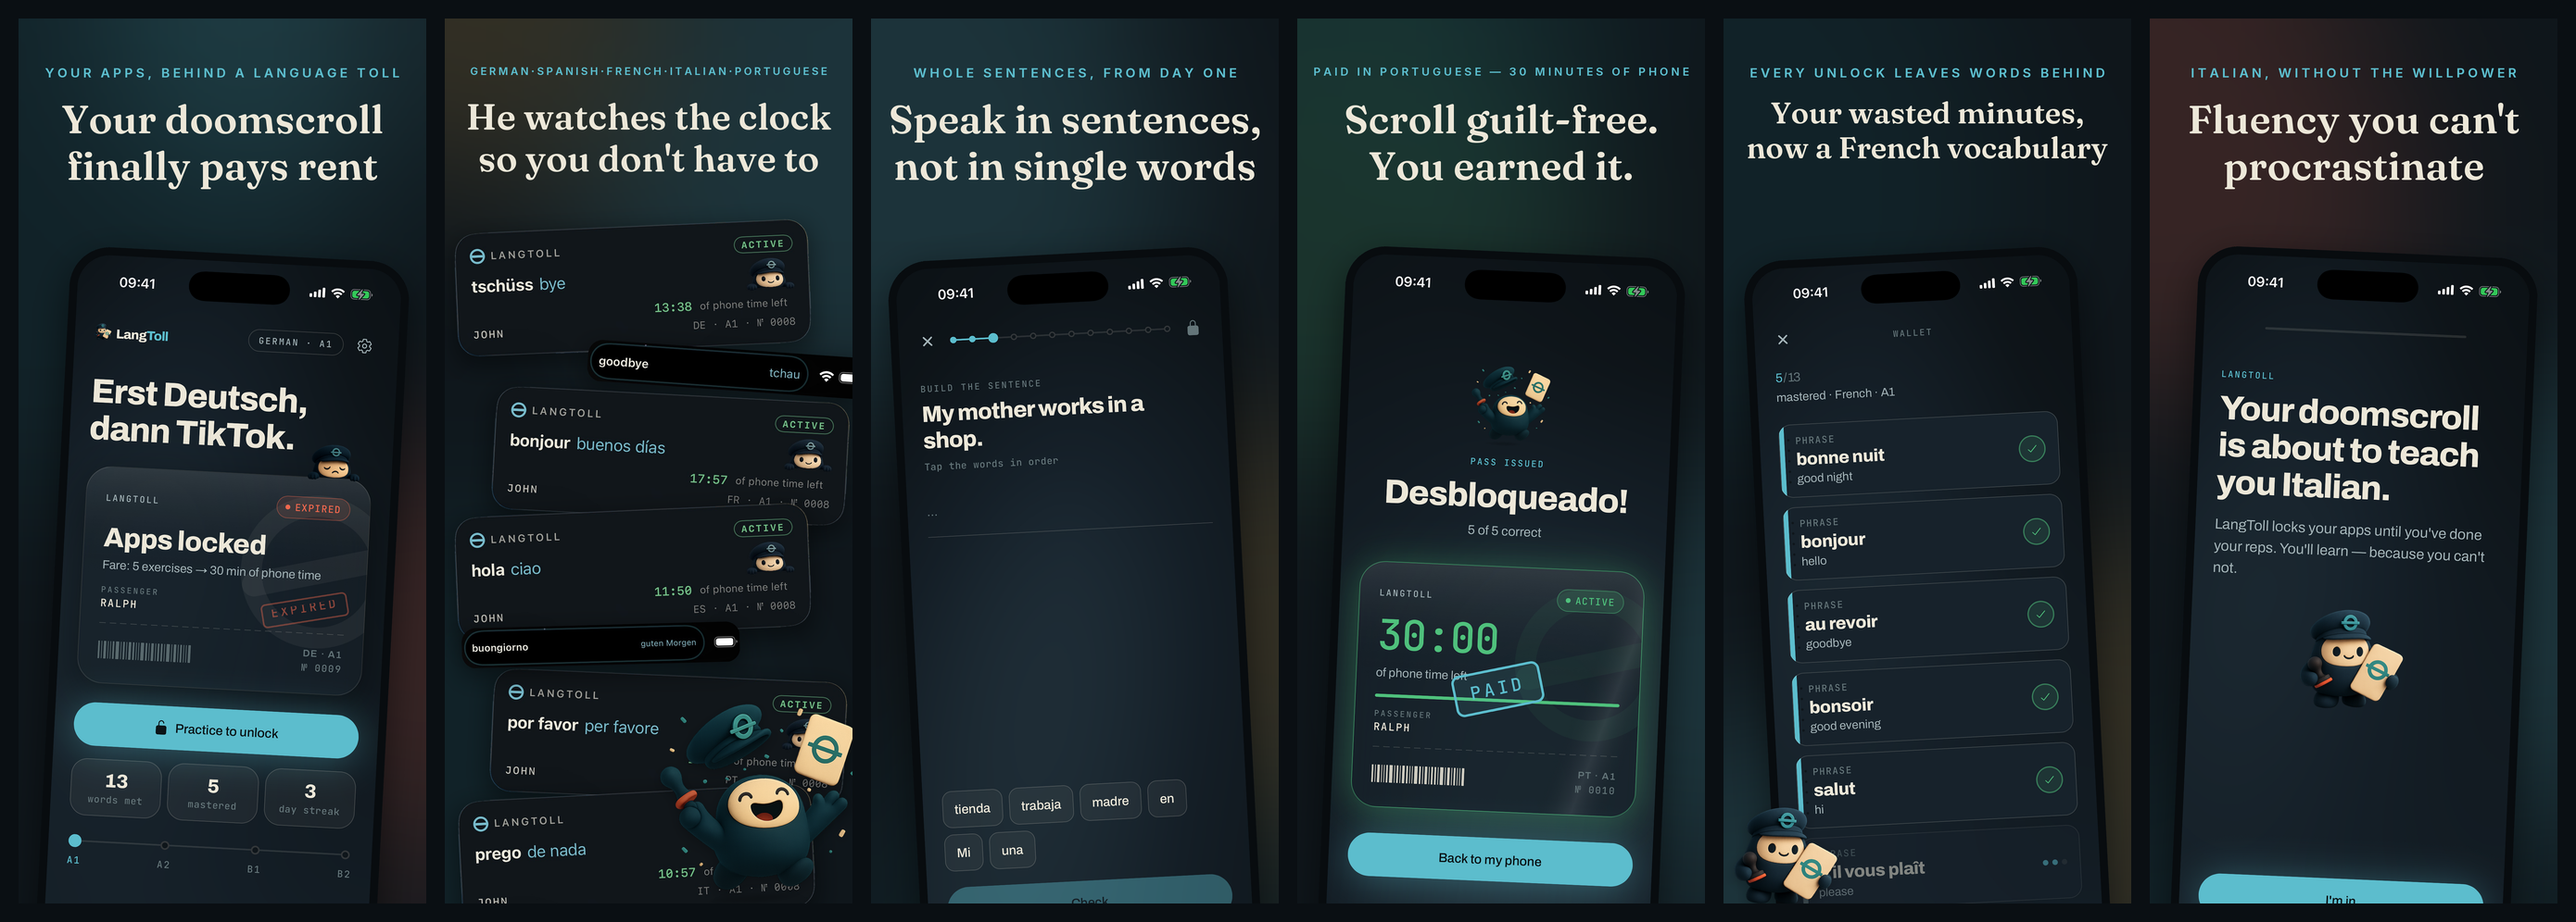
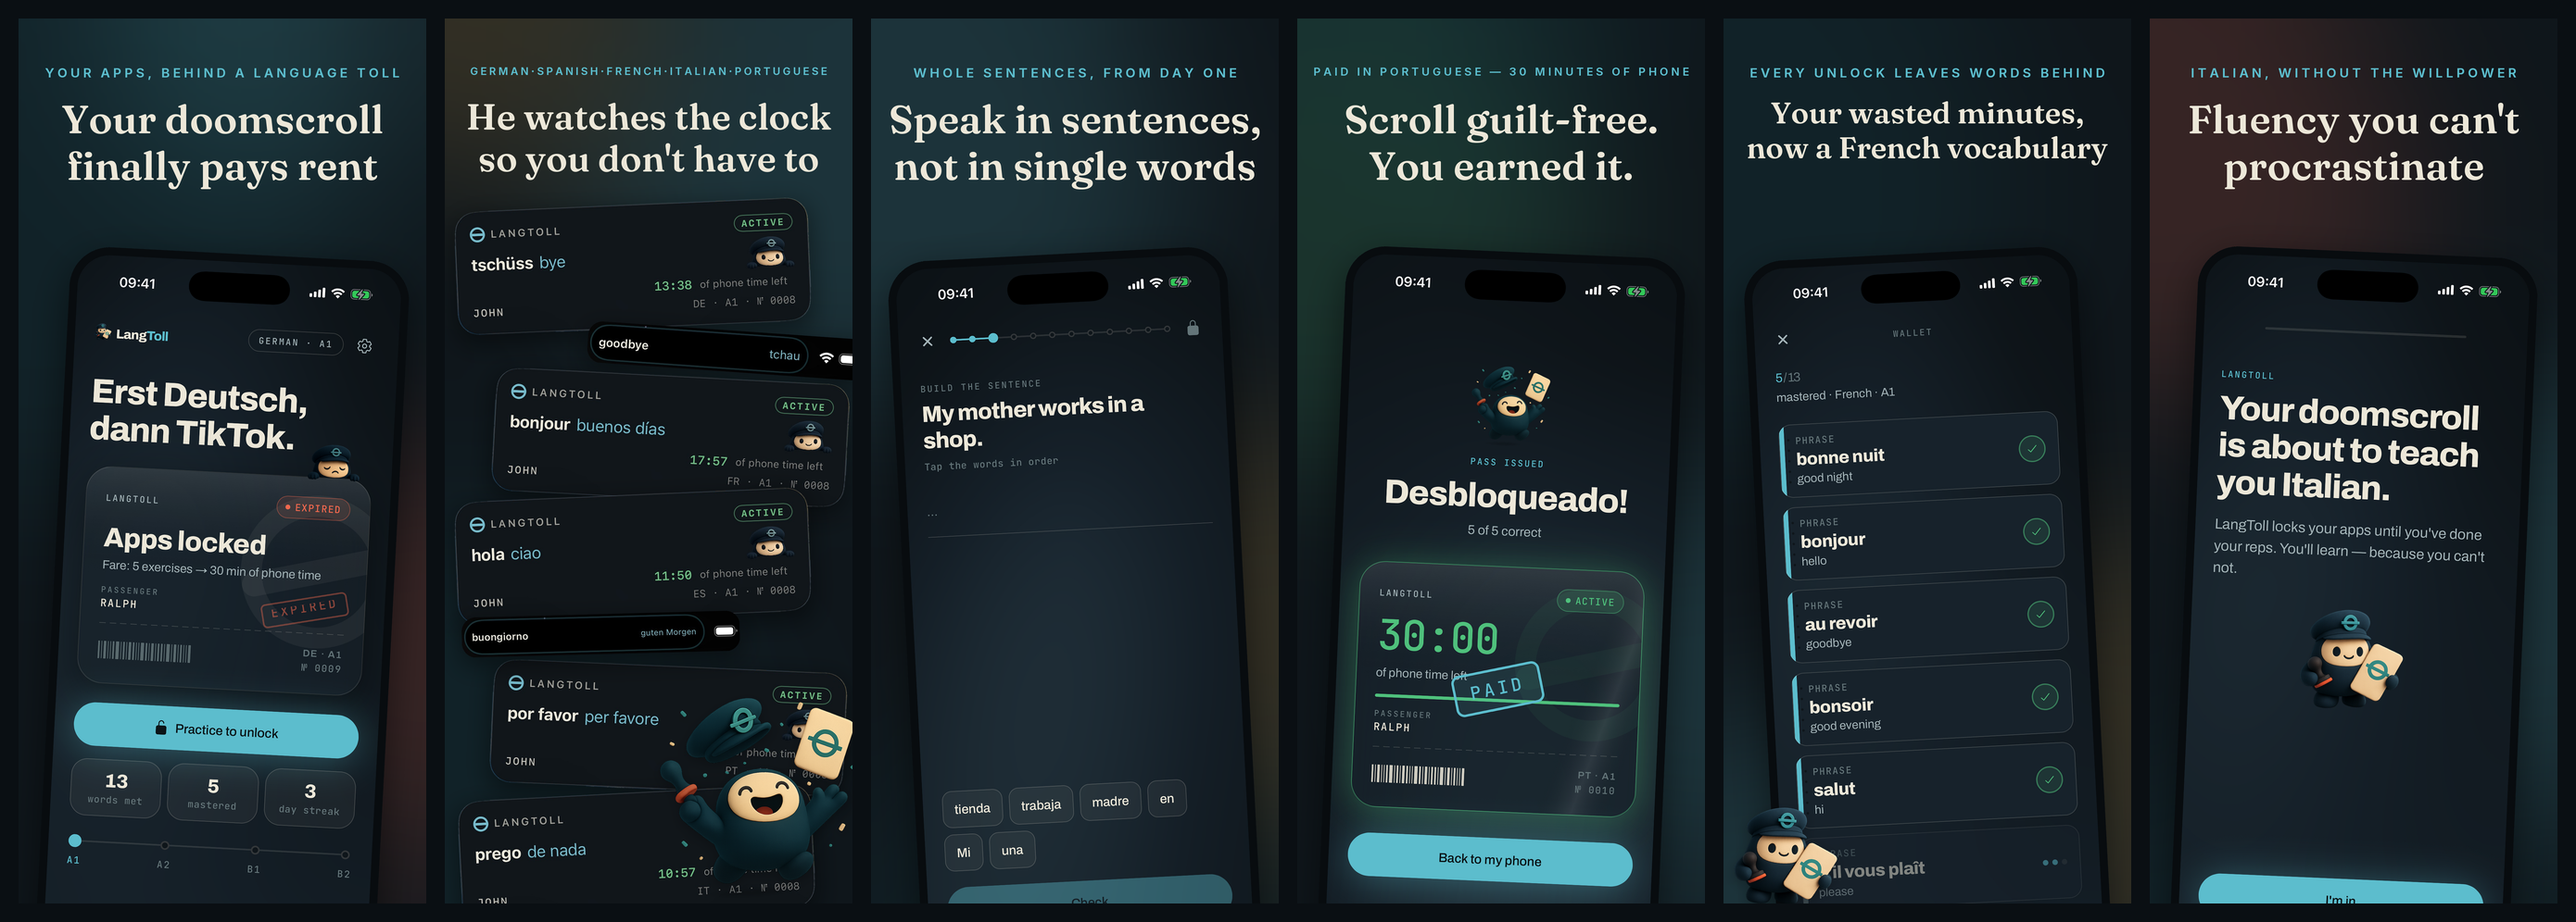
shots: close the dead band under the headline — cascade starts at the copy
The stack rises ~70px with the slack absorbed gradually down the column, so
the first card sits right under the headline and the bottom keeps its bleed.

Claude-Session: https://claude.ai/code/session_01WH3gWNvxtpgQbCP3L1S9tL

Changed region(s): [[0.1856, 0.2179, 0.3403, 0.9026], [0.1856, 0.249, 0.2165, 0.3424], [0.1856, 0.5602, 0.2165, 0.6225]]

diff --git a/langtoll-mobile/marketing/appstore/store_shots.py b/langtoll-mobile/marketing/appstore/store_shots.py
@@ -241,15 +241,15 @@ SHOTS = [
         # self-labelling its course (DE/FR/ES/PT/IT in the ticket footer).
         # Pairs deliberately cross languages: source AND target vary.
         "strips": [
-            {"path": "raw/raw_lockscreen_tschuess_exact.png", "w": 1150, "tilt": 2.5, "x": -100, "y": 520},
-            {"path": "raw/raw_island_goodbye_tchau_full.jpg", "w": 900, "tilt": -4.0, "x": 330, "y": 910},
-            {"path": "raw/raw_lock_bonjour_buenosdias_exact.png", "w": 1150, "tilt": -3.0, "x": 20, "y": 1060},
-            {"path": "raw/raw_lock_hola_ciao_exact.png", "w": 1150, "tilt": 2.5, "x": -100, "y": 1440},
-            {"path": "raw/raw_lock_porfavor_perfavore_exact.png", "w": 1150, "tilt": -2.5, "x": 15, "y": 1975},
+            {"path": "raw/raw_lockscreen_tschuess_exact.png", "w": 1150, "tilt": 2.5, "x": -100, "y": 450},
+            {"path": "raw/raw_island_goodbye_tchau_full.jpg", "w": 900, "tilt": -4.0, "x": 330, "y": 850},
+            {"path": "raw/raw_lock_bonjour_buenosdias_exact.png", "w": 1150, "tilt": -3.0, "x": 20, "y": 1000},
+            {"path": "raw/raw_lock_hola_ciao_exact.png", "w": 1150, "tilt": 2.5, "x": -100, "y": 1390},
+            {"path": "raw/raw_lock_porfavor_perfavore_exact.png", "w": 1150, "tilt": -2.5, "x": 15, "y": 1945},
             {"path": "raw/raw_lock_prego_denada_exact.png", "w": 1150, "tilt": 3.0, "x": -90, "y": 2350},
-            {"path": "raw/raw_island_buongiorno_full.jpg", "w": 900, "tilt": 1.5, "x": -70, "y": 1830},
+            {"path": "raw/raw_island_buongiorno_full.jpg", "w": 900, "tilt": 1.5, "x": -70, "y": 1795},
         ],
-        "tollys": [{"name": "tolly-celebrate", "w": 640, "x": 640, "y": 2140, "tilt": 3.0}],
+        "tollys": [{"name": "tolly-celebrate", "w": 640, "x": 640, "y": 2120, "tilt": 3.0}],
     },
     {
         # The fare: a rep is BUILDING a real sentence from word tiles — not matching\n        # a word to its translation. The caption must never promise more than the\n        # screen proves (an early cut said "order dinner" over a "the coffee" drill).
